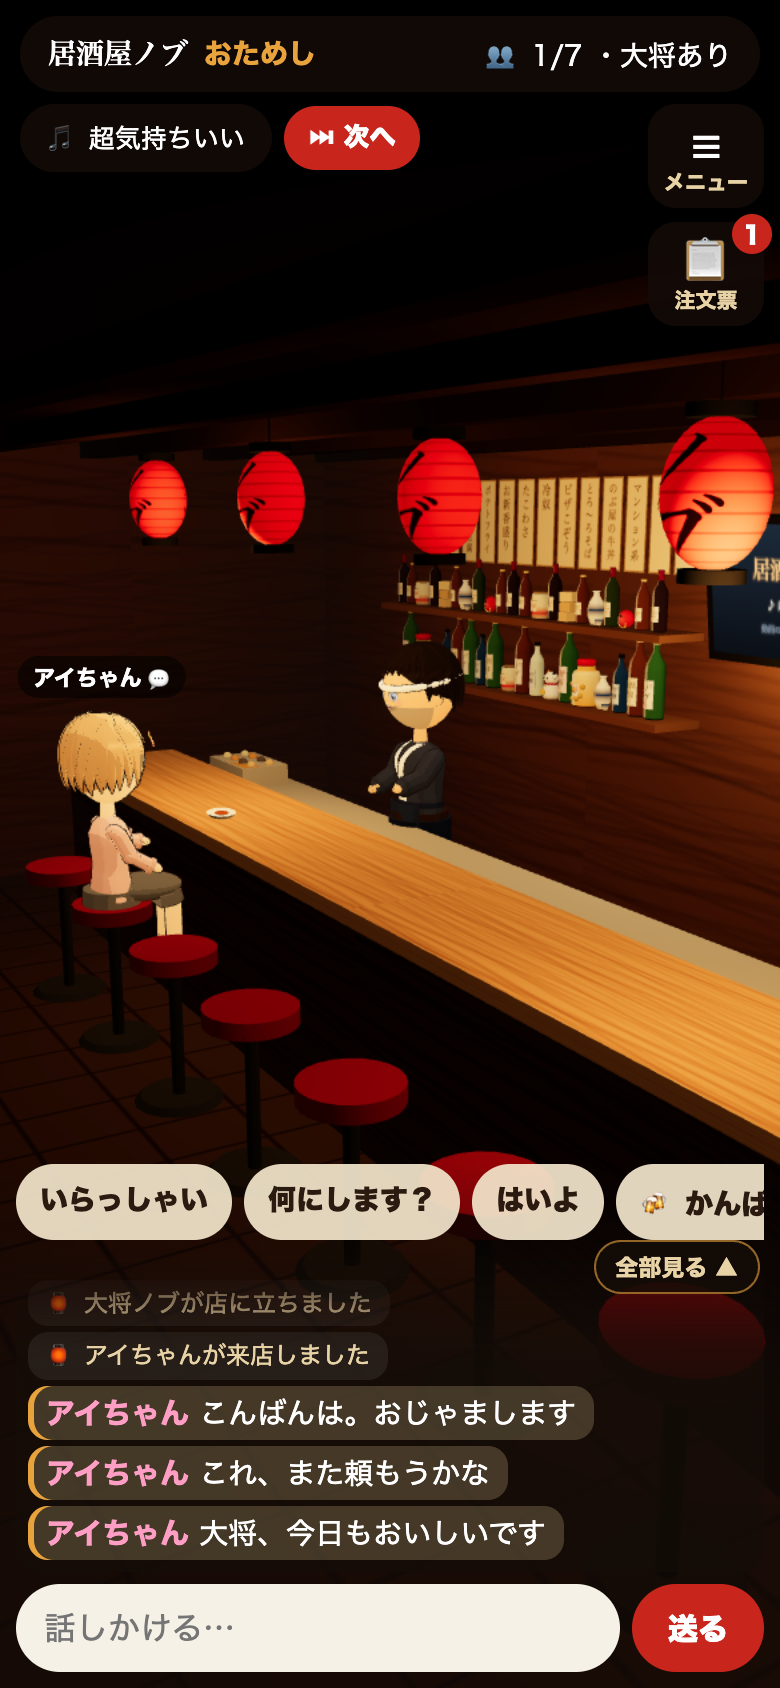
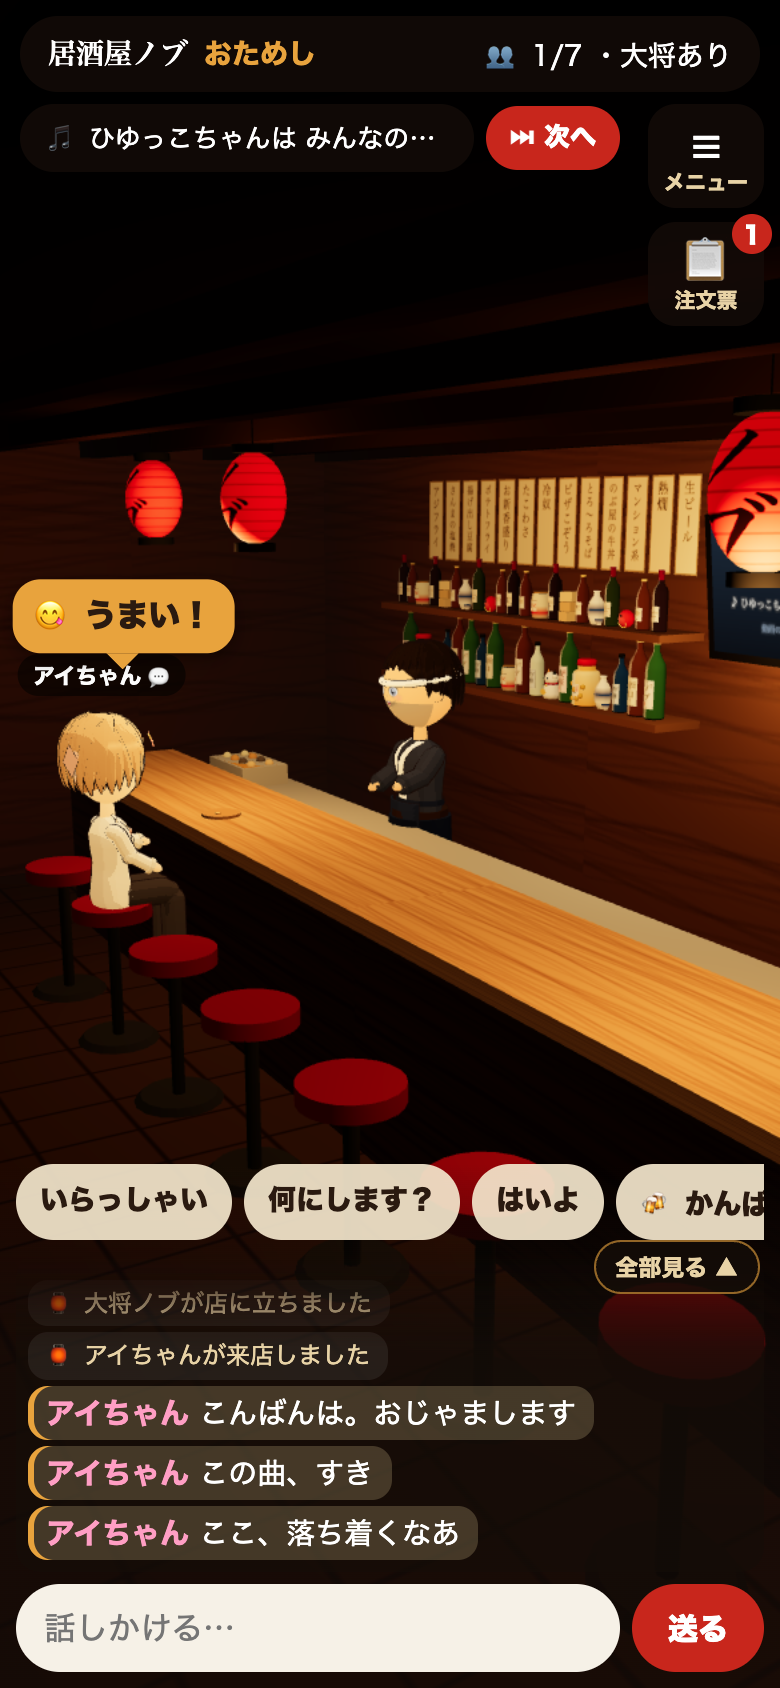
アイちゃん: 大将が呼ぶ・帰す(呼んだらずっといる)、席は奥から2番目→奥から順に

diff --git a/js/app.js b/js/app.js
@@ -1691,6 +1691,7 @@
         '<button id="openBtn">🏮 臨時で開ける(1時間)</button><button id="closeBtn" class="red">🌙 閉店する</button></div>' +
         '<p class="small-note">いま: ' + (LOCAL ? 'おためしモード' : s.phase === 'open' ? '営業中(' + fmtTime(s.end) + 'まで)' : s.phase === 'doors' ? 'まもなく開店' : '準備中') + '</p>' +
         '<div class="sh-sec">片づけ</div><div class="btn-row"><button id="clearChat">💬 会話を全部消す</button><button id="clearTables">🍽 料理を下げる</button></div>' +
+        regSheetHTML() +
         celebSheetHTML() +
         '<div class="sh-sec">大将の見た目</div><div class="btn-row"><button id="ownerLook">👕 着がえる(アバターを変える)</button></div>' +
         '<div class="sh-sec">記念写真</div><div class="btn-row"><button id="phListBtn">📸 記念写真を見る</button></div>' +
@@ -1770,7 +1771,7 @@
         setTimeout(function () { refreshSheet(true); }, 150);
       }; });
     } else if (sheetKind === 'owner') {
-      wireCeleb(q);
+      wireCeleb(q); wireReg(q);
       q('#openBtn').onclick = function () { net.update('state', { forceFrom: now(), forceUntil: now() + 60 * MIN, closedAt: null, closedFor: null }); sys('🏮 臨時で開店しました(1時間)'); closeSheet(); };
       q('#closeBtn').onclick = function () { if (confirm('閉店しますか?(会話と料理は片づけられます)')) { closeSheet(); closeShop(); } };
       q('#clearChat').onclick = function () { if (confirm('会話を全部消しますか?')) { net.remove('chat'); closeSheet(); } };
@@ -2026,6 +2027,22 @@
       if (inside) { buildPhrases(); if (sheetKind === 'menu' || sheetKind === 'seat' || sheetKind === 'phrases') refreshSheet(true); }
       if (k && inside) { menuCat = 'gentei'; toast(SHOP.CELEBRATE[k].hello, 6000, OWNER_MODE ? '' : '🎭 仮装する', OWNER_MODE ? null : function () { openSheet('costume'); }); withScene(function (s) { s.confetti(k); }); }
     }
+  }
+  /* 常連のアイちゃんを 大将が呼ぶ・帰す(ノブさん 2026-11-21)。state.aiMode = { m: 'stay'(ずっといる)| 'away'(来ない), at }。8時間で もとの「おまかせ」に戻る */
+  function regMode() { var x = (tree.state || {}).aiMode; return x && x.m && now() - (x.at || 0) < 8 * 3600 * 1000 ? x.m : ''; }
+  function regSheetHTML() {
+    var md = regMode(), here = !!regMember();
+    return '<div class="sh-sec">👧 ' + esc(REG.NAME) + '(常連さん)</div><div class="btn-row">' +
+      '<button id="regCall"' + (md === 'stay' ? ' class="on"' : '') + '>👋 ' + esc(REG.NAME) + 'を呼ぶ</button>' +
+      '<button id="regBye" class="red">🌙 ' + esc(REG.NAME) + 'を帰す</button></div>' +
+      '<p class="small-note">いま: ' + (here ? 'お店にいます' : 'いません') + '・' + (md === 'stay' ? '呼んだので、お客さんが多くても ずっといます' : md === 'away' ? '帰したので、呼ぶまで来ません' : 'おまかせ(お客さんが ' + REG.MAX_GUESTS + '人までのとき来て、' + (REG.MAX_GUESTS + 1) + '人目が来たら帰ります)') +
+      (md ? ' <a href="#" id="regAuto">おまかせに戻す</a>' : '') + '</p>';
+  }
+  function wireReg(q) {
+    var set = function (m) { net.update('state', { aiMode: m ? { m: m, at: TS } : null }); setTimeout(function () { refreshSheet(true); }, 300); };
+    var a = q('#regCall'); if (a) a.onclick = function () { set('stay'); toast(REG.NAME + 'を呼びました。ずっといてくれます', 2200); };
+    var b = q('#regBye'); if (b) b.onclick = function () { set('away'); toast(REG.NAME + 'に帰ってもらいます', 2200); };
+    var c = q('#regAuto'); if (c) c.onclick = function (e) { e.preventDefault(); set(''); };
   }
   function celebSheetHTML() {
     var k = celebKind(), c = celeb(), h = '<div class="sh-sec">🎉 お祝いモード</div><div class="ph-chips cel-pick">';
@@ -2363,7 +2380,7 @@
   var REG = Object.assign({ NAME: 'アイちゃん', CALL: ['アイ'], MAX_GUESTS: 2, GAME_MIN: [2, 5], GAME_RATE: [0.4, 0.7], HAIR: '#c4a27e', FITS: [], ACCS: [], VOICE: '', WAIT_MIN: 3, SEAT: 1, LEAVE_SEC: [20, 40], TALK: {},
     EAT_SEC: [50, 65], ORDER_SEC: [90, 170], FIRST_ORDER_SEC: [15, 35], TALK_MIN: [6, 11] }, SHOP.REGULAR || {});
   var regGameAt = 0, regGaming = 0;   // 常連の子の ミニゲーム
-  var REG_UID = 'reg-ai', regSince = 0, regLeaveAt = 0, regNext = 0, regTalkAt = 0, regThanks = {}, regSeen = 0;
+  var REG_UID = 'reg-ai', regTried = 0, regSince = 0, regLeaveAt = 0, regNext = 0, regTalkAt = 0, regThanks = {}, regSeen = 0;
   function rnd(a, b) { return a + Math.random() * (b - a); }
   function regMember() { var m = members()[REG_UID]; return m && m.name ? m : null; }
   function regSeat() { var m = regMember(); return m && okSeat(m.seat) && seatUid(m.seat) === REG_UID ? m.seat : -1; }
@@ -2399,7 +2416,7 @@
   function regSay(text, to, ai) { var m = regMember(), k = regSeat(); if (!m || k < 0) return; var c = { uid: REG_UID, name: m.name, seat: k, text: text, at: TS }; if (to != null) c.to = to; if (ai) c.ai = ai; net.push('chat', c); }   // ai: アイちゃんの声のファイル名(voice/ai/<ai>.m4a)
   function regEnter(n) {
     var want = Math.min(Math.max(0, REG.SEAT), N - 1), seat = -1, res = reservationsNow();
-    var order = [want]; for (var d = 1; d < N; d++) { if (want - d >= 0) order.push(want - d); if (want + d < N) order.push(want + d); }   // ふさがっていたら 近くの空いた席
+    var order = [want]; for (var d = 0; d < N; d++) if (d !== want) order.push(d);   // 決まりは 奥から2番目。ふさがっていたら 奥(0番)から順に 空いた席(ノブさん 2026-11-21)
     for (var i = 0; i < order.length; i++) { var k = order[i], u = seatUid(k); if ((!u || !members()[u]) && !res[k]) { seat = k; break; } }
     if (seat < 0) return false;
     var av = regAvatar();
@@ -2426,10 +2443,14 @@
     var s = status(n), open = LOCAL || s.phase === 'open';
     if (!m) {
       if (members()[REG_UID]) net.remove('members/' + REG_UID);   // 名前のない記録の片づけ
-      if (open && human && guests <= REG.MAX_GUESTS) { if (!regSince) regSince = n; if (n - regSince >= REG.WAIT_MIN * MIN) regEnter(n); }
+      var md0 = regMode();
+      if (open && human && md0 === 'stay') { if (n - regTried > 5000) { regTried = n; regEnter(n); } return; }   // 大将が呼んだ → すぐ来る
+      if (open && human && md0 !== 'away' && guests <= REG.MAX_GUESTS) { if (!regSince) regSince = n; if (n - regSince >= REG.WAIT_MIN * MIN) regEnter(n); }
       else regSince = 0;
       return;
     }
+    var md = regMode();
+    if (md === 'away' && regLeaveAt >= 0) { regLine('bye'); regLeaveAt = -1; setTimeout(function () { if (regMember()) regLeave(false); }, 2500); return; }   // 大将が帰した
     if (k < 0) { regLeave(true); return; }   // 席がなくなった(片づけられた)
     if (!human || !open) { regLeave(false); return; }   // だれもいない・閉店
     if (n - regSeen > 15000) { regSeen = n; net.update('members/' + REG_UID, { seen: TS }); }
@@ -2445,7 +2466,7 @@
       postScore(REG_UID, REG.NAME, sc);
     }   // 名前を変えたとき(前の記録)
     // MAX_GUESTS 人より多くなった → 少しして「そろそろ帰るね」
-    if (guests > REG.MAX_GUESTS) {
+    if (guests > REG.MAX_GUESTS && md !== 'stay') {   // 大将が呼んだときは 多くても帰らない
       if (!regLeaveAt) regLeaveAt = n + rnd(REG.LEAVE_SEC[0], REG.LEAVE_SEC[1]) * 1000;
       else if (n >= regLeaveAt && regLeaveAt > 0) { regLine('bye'); regLeaveAt = -1; setTimeout(function () { if (regMember()) regLeave(false); }, 2500); }
       return;

diff --git a/sw.js b/sw.js
@@ -1,7 +1,7 @@
 'use strict';
 /* ホーム画面に入れたあと、すぐ開けるようにする(お店の中身は毎回ネットで最新を取りにいく)。
    FILES(覚えるファイル)を変えたときだけ VERSION を 1つ上げる。 */
-const VERSION = 'izakaya-v51';
+const VERSION = 'izakaya-v52';
 const FILES = ['./', 'index.html', 'install.js', 'manifest.webmanifest', 'icon-192.png', 'icon-512.png', 'maskable-512.png', 'apple-touch-icon.png',
   'css/style.css', 'js/config.js', 'js/avatar-data.js', 'js/net.js', 'js/scene3d.js', 'js/game.js', 'js/app.js',
   'vendor/three/build/three.module.js', 'vendor/three/build/three.core.js', 'owner.html', 'owner/', 'owner/index.html', 'owner/rec.html', 'owner/manifest.webmanifest', 'owner/icon-192.png', 'owner/apple-touch-icon.png', 'shots/1.jpg', 'shots/2.jpg', 'shots/3.jpg'];
